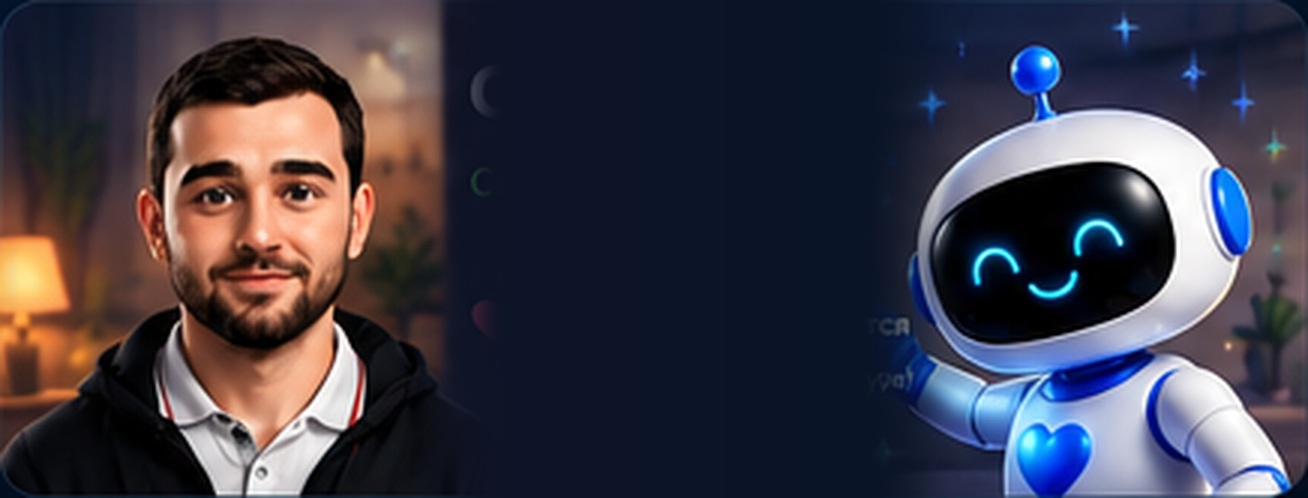
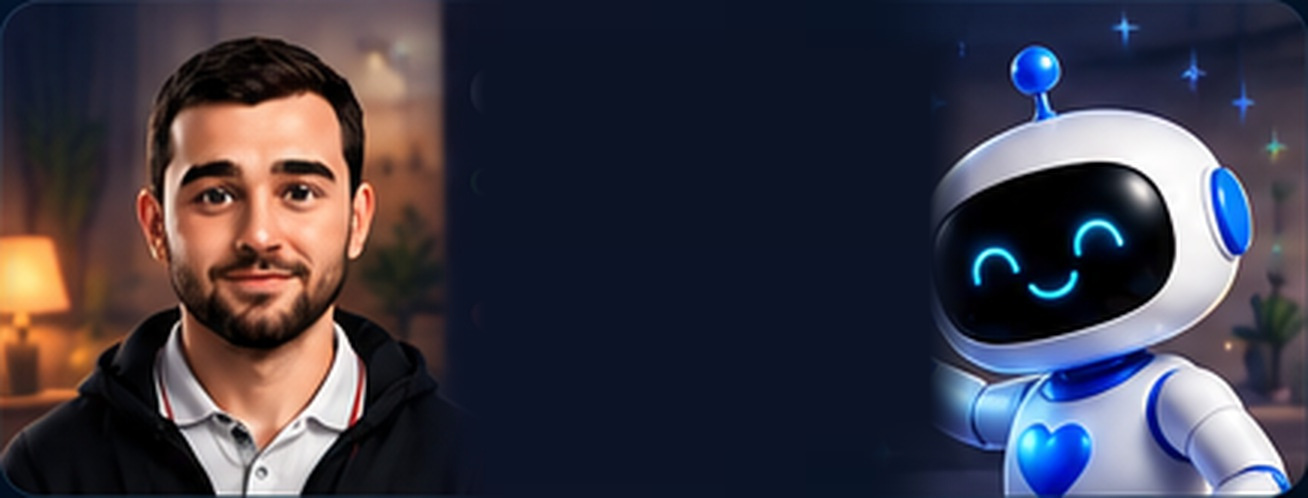
Add files via upload

Changed region(s): [[0.6728, 0.3012, 0.7645, 0.8735], [0.7034, 0.1807, 0.7339, 0.241], [0.3364, 0.1506, 0.367, 0.2108]]

diff --git a/sw.js b/sw.js
@@ -1,4 +1,4 @@
-const CACHE='amor-v81-home-aside';
+const CACHE='amor-v82-home-text-clean';
 const ASSETS=['./amor_medicine_hero_v78.jpg','./amor_advice_heart_v76.png','./amor_analytics_scene_v73.jpg','./','./index.html','./amor_basket_hero_v70.jpg','./amor_chef_kitchen_v66.jpg','./amor_recommendations_v67.jpg','./amor_chef_banner_v65.jpg','./amor_hero_light.jpg','./amor_home_clean_dark_v80.jpg','./amor_home_clean_light_v80.jpg','./amor_hero_dark.jpg','./amor_wave.png','./food_cottage.jpg','./food_soup.jpg','./food_chicken.jpg','./food_salmon.jpg','./amor_medicine.png','./amor_basket_dark.png','./amor_basket_light.png','./amor_analytics_dark.png','./amor_analytics_light.png','./amor_food_dark.png','./amor_food_light.png','./amor_nutrition_hero.png','./amor_food_banner_v59.jpg','./amor_recipe_banner_v63.jpg','./caesar_batat.jpg','./icon-192.png','./icon-512.png','./manifest.webmanifest','./amor_scene_home.png','./amor_scene_food.png','./amor_scene_basket.png','./amor_scene_analytics.png','./amor_scene_medicine.png','./amor_scene_recipes.png'];
 self.addEventListener('install',event=>{event.waitUntil(caches.open(CACHE).then(cache=>cache.addAll(ASSETS)).then(()=>self.skipWaiting()));});
 self.addEventListener('activate',event=>{event.waitUntil(caches.keys().then(keys=>Promise.all(keys.filter(k=>k.startsWith('amor-')&&k!==CACHE).map(k=>caches.delete(k)))).then(()=>self.clients.claim()));});
